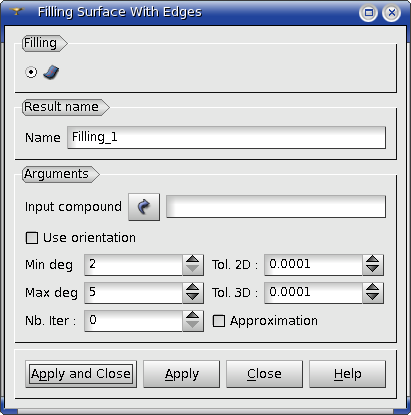
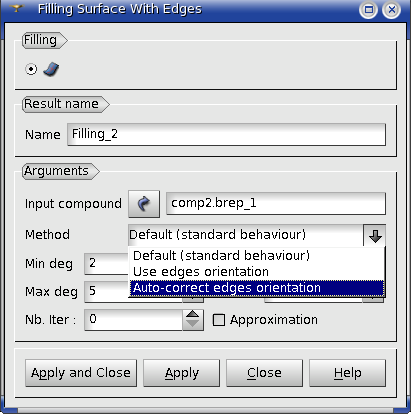
Changes for 0020673 - Implementation of "Auto-correct edges orientation".

diff --git a/src/GEOMGUI/GEOM_msg_en.ts b/src/GEOMGUI/GEOM_msg_en.ts
@@ -3788,8 +3788,20 @@ Please, select face, shell or solid and try again</translation>
             <translation>Approximation</translation>
         </message>
         <message>
+            <source>GEOM_FILLING_METHOD</source>
+            <translation>Method</translation>
+        </message>
+        <message>
+            <source>GEOM_FILLING_DEFAULT</source>
+            <translation>Default (standard behaviour)</translation>
+        </message>
+        <message>
             <source>GEOM_FILLING_USEORI</source>
-            <translation>Use orientation</translation>
+            <translation>Use edges orientation</translation>
+        </message>
+        <message>
+            <source>GEOM_FILLING_AUTO</source>
+            <translation>Auto-correct edges orientation</translation>
         </message>
         <message>
             <source>GEOM_WRN_NO_APPROPRIATE_SELECTION</source>

diff --git a/src/GEOM_I/GEOM_I3DPrimOperations_i.cc b/src/GEOM_I/GEOM_I3DPrimOperations_i.cc
@@ -704,14 +704,15 @@ GEOM::GEOM_Object_ptr GEOM_I3DPrimOperations_i::MakeRevolutionAxisAngle2Ways
  *  MakeFilling
  */
 //=============================================================================
-GEOM::GEOM_Object_ptr GEOM_I3DPrimOperations_i::MakeFilling(GEOM::GEOM_Object_ptr theShape,
-                                                            CORBA::Long theMinDeg,
-                                                            CORBA::Long theMaxDeg,
-                                                            CORBA::Double theTol2D,
-                                                            CORBA::Double theTol3D,
-                                                            CORBA::Long theNbIter,
-                                                            CORBA::Boolean theUseOri,
-                                                            CORBA::Boolean theApprox)
+GEOM::GEOM_Object_ptr
+GEOM_I3DPrimOperations_i::MakeFilling(GEOM::GEOM_Object_ptr theShape,
+                                      CORBA::Long theMinDeg,
+                                      CORBA::Long theMaxDeg,
+                                      CORBA::Double theTol2D,
+                                      CORBA::Double theTol3D,
+                                      CORBA::Long theNbIter,
+                                      GEOM::filling_oper_method theMethod,
+                                      CORBA::Boolean theApprox)
 {
   GEOM::GEOM_Object_var aGEOMObject;
 
@@ -723,10 +724,34 @@ GEOM::GEOM_Object_ptr GEOM_I3DPrimOperations_i::MakeFilling(GEOM::GEOM_Object_pt
 
   if (aShape.IsNull()) return aGEOMObject._retn();
 
+  int aMethod = 0;
+  switch (theMethod) {
+  case GEOM::FOM_Default:
+    {
+      // Default (standard behaviour)
+      aMethod = 0;
+    }
+    break;
+  case GEOM::FOM_UseOri:
+    {
+      // Use edges orientation
+      aMethod = 1;
+    }
+    break;
+  case GEOM::FOM_AutoCorrect:
+    {
+      // Auto-correct edges orientation
+      aMethod = 2;
+    }
+    break;
+  default:
+    {}
+  }
+
   //Create the Solid
   Handle(GEOM_Object) anObject = GetOperations()->MakeFilling
     (aShape, theMinDeg, theMaxDeg, theTol2D, theTol3D, theNbIter,
-     theUseOri, theApprox);
+     aMethod, theApprox);
   if (!GetOperations()->IsDone() || anObject.IsNull())
     return aGEOMObject._retn();
 

diff --git a/src/GEOM_I_Superv/GEOM_Superv_i.cc b/src/GEOM_I_Superv/GEOM_Superv_i.cc
@@ -1247,7 +1247,7 @@ GEOM::GEOM_Object_ptr GEOM_Superv_i::MakeFilling (GEOM::GEOM_Object_ptr theShape
 						  CORBA::Double theTol2D,
                                                   CORBA::Double theTol3D,
 						  CORBA::Long theNbIter,
-                                                  CORBA::Boolean theUseOri,
+                                                  GEOM::filling_oper_method theMethod,
                                                   CORBA::Boolean theApprox)
 {
   beginService( " GEOM_Superv_i::MakeFilling" );
@@ -1255,7 +1255,7 @@ GEOM::GEOM_Object_ptr GEOM_Superv_i::MakeFilling (GEOM::GEOM_Object_ptr theShape
   get3DPrimOp();
   GEOM::GEOM_Object_ptr anObj =
     my3DPrimOp->MakeFilling(theShape, theMinDeg, theMaxDeg, theTol2D, theTol3D,
-                            theNbIter, theUseOri, theApprox);
+                            theNbIter, theMethod, theApprox);
   endService( " GEOM_Superv_i::MakeFilling" );
   return anObj;
 }

diff --git a/src/GenerationGUI/GenerationGUI_FillingDlg.h b/src/GenerationGUI/GenerationGUI_FillingDlg.h
@@ -60,7 +60,7 @@ private:
   Standard_Real                      myTol2D;
   Standard_Integer                   myNbIter;
   bool                               myIsApprox;
-  bool                               myIsUseOri;
+  int                                myMethod;
   bool                               myOkCompound; /* to check when curv. compound is defined */
 
   DlgRef_1Sel5Spin1Check*            GroupPoints;
@@ -73,7 +73,7 @@ private slots:
   void                               SelectionIntoArgument();
   void                               SetEditCurrentArgument();
   void                               ValueChangedInSpinBox( double );
-  void                               UseOriChanged();
+  void                               MethodChanged();
   void                               ApproxChanged();
   void                               SetDoubleSpinBoxStep( double );
 };
